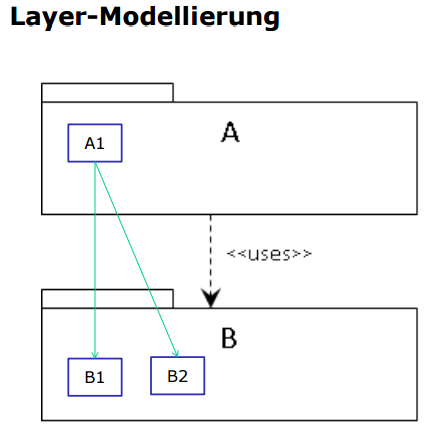
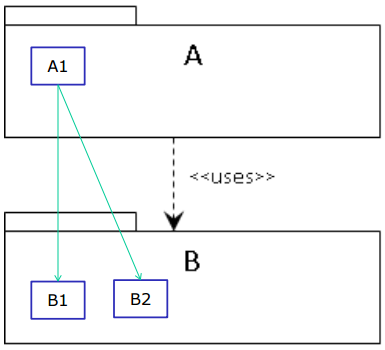
Layout korrigiert

Changed region(s): [[0.0, 0.0, 0.9974, 1.0], [0.5299, 0.5714, 0.7481, 0.6], [0.4675, 0.1143, 0.5299, 0.2]]

diff --git a/architektur.tex b/architektur.tex
@@ -117,29 +117,31 @@ Dies ist ein Designmuster mit dem Ziel Datemodell von seiner Darstellung und der
 \paragraph{Anwendungsfall 2: MVC auf Applikationsebene} Model ist meist eine ganz normale Java-Klasse. Mehrere Views können die Daten darstellen. Änderungen im Modell werden an die Views gesendet. Modell darf aber View nicht kennen (Observer)! Ein Controller verändert die Modelle und ordnet den Views die entsprechenden Modelle zu. Bsp: Modell einer Kundenadresse. Zwei Views: Detailliertes Formulare und als Zeile in Tabellenansicht.
 
 \begin{figure}[h!]
-\centering
-\includegraphics[width=0.7\linewidth]{fig/mvc}
-\caption{MVC}
-\label{fig:mvc}
+	\centering
+	\begin{subfigure}[b]{0.3\textwidth}
+		\includegraphics[width=\textwidth]{fig/mvc}
+		\caption{MVC Prinzip}
+		\label{fig:mvc}
+	\end{subfigure}
+	~
+	\begin{subfigure}[b]{0.3\textwidth}
+		\includegraphics[width=\textwidth]{fig/mvc-web-1}
+		\caption{MVC Variante 1: Alt und eher schlecht. (View Controller vermischt)}
+		\label{fig:mvc-web-1}
+	\end{subfigure}
+	~
+	\begin{subfigure}[b]{0.3\textwidth}
+		\includegraphics[width=\textwidth]{fig/mvc-web-2}
+		\caption{MVC Variante 2: Neu und eher besser.}
+		\label{fig:mvc-web-2}
+	\end{subfigure}
+	\caption{MVC Pattern}\label{fig:mvc-pattern}
 \end{figure}
 
 \paragraph{Implementationsvarianten} Kopplung zwischen Model und View. Observerpattern zwischen Modell und View oder über Controller. Statisches Modell: Notifikation über Änderungen im Modell (eher bei grösseren Modellen mit wenig Änderungen). Dynamisches Modell: Aktuelles Modell wird der View regelmässig übergeben (eher bei kleineren Modellen mit vielen Änderungen).
 
-\paragraph{MVC in Webapplikationen} MVC Architektur ist bedingt durch die Technologie von Web-Applikationen eine Herauserforderung. Es besteht oft die Gefahr View und Business-Logic zu vermischen. Modell kann jeweils relativ einfach extrahiert werden. Im Laufe der Zeit sind zwei MVC-Varianten entstanden:
-
-\begin{figure}[h!]
-\centering
-\includegraphics[width=0.7\linewidth]{fig/mvc-web-1}
-\caption{MVC Variante 1: Alt und eher schlecht. (View Controller vermischt)}
-\label{fig:mvc-web-1}
-\end{figure}
-
-\begin{figure}[h!]
-\centering
-\includegraphics[width=0.7\linewidth]{fig/mvc-web-2}
-\caption{MVC Variante 2: Neu und eher besser.}
-\label{fig:mvc-web-2}
-\end{figure}
+\paragraph{MVC in Webapplikationen} 
+MVC Architektur ist bedingt durch die Technologie von Web-Applikationen eine Herauserforderung. Es besteht oft die Gefahr View und Business-Logic zu vermischen. Modell kann jeweils relativ einfach extrahiert werden. Im Laufe der Zeit sind zwei MVC-Varianten entstanden:
 
 MVC Pattern ist fundamental im SW-Design. Modelle sind meist sehr stabil und bieten hohe Kohäsion und lose Kopplung. Pro Modell können verschiedene Views existieren. Die Wiederverwendung von Controller ist jedoch sehr gering, da oft hoch spezialisiert. Controller agieren als Leim zwischen View und Modell.
 

diff --git a/hofstetter.tex b/hofstetter.tex
@@ -3,10 +3,10 @@
 \section{Anforderungen}
 
 \subsection{Begriffe}
-\begin{itemize}
-	\item Anforderungen: Wünsche, Ziele und Vorgaben von Benutzer an ein System. Bedingungen und Eigenschaften des zu entwickelnden Systems.
-	\item Stakeholder: Person oder Organisation die Einfluss auf die Anforderungen hat. (Bspw: Kunde, Vorschriften, Gesetze)
-\end{itemize}
+\begin{description}
+	\item[Anforderungen:] Wünsche, Ziele und Vorgaben von Benutzer an ein System. Bedingungen und Eigenschaften des zu entwickelnden Systems.
+	\item[Stakeholder:] Person oder Organisation die Einfluss auf die Anforderungen hat. (Bspw: Kunde, Vorschriften, Gesetze)
+\end{description}
 
 \subsection{Einführung}
 
@@ -304,26 +304,23 @@ Pakete sind Ansammlungen von irgendwelchen Modellelementen. Mittels Paketen wird
 \subsection{Zyklische Abhängigkeiten}
 Wenn A von B abhängig ist und B von A. Oder wenn A von B und B von C und C wiederum von A. Dann haben wir Zyklen. Das erhöht die Kopplung des System und ist schlecht wartbar. Zyklen konnen oft mittels eines dritten vermieden werden. Der Dritte entkoppelt die beiden voneinander. In Java wird oft das Observer-Pattern eingesetzt.
 
-\begin{figure}[h!]
-\centering
-\includegraphics[width=0.7\linewidth]{fig/observer-pattern}
-\caption{Observer-Pattern}
-\label{fig:observer-pattern}
-\end{figure}
-
 \subsection{Weitere Modellierungen}
-\begin{figure}[h!]
-\centering
-\includegraphics[width=0.7\linewidth]{fig/layer-modellierung}
-\caption{Layer-Modellierung}
-\label{fig:layer-modellierung}
-\end{figure}
 
 \begin{figure}[h!]
-\centering
-\includegraphics[width=0.7\linewidth]{fig/interface-uml}
-\caption{Interface in UML}
-\label{fig:interface-uml}
+	\centering
+	\begin{subfigure}[b]{0.4\textwidth}
+		\includegraphics[width=\textwidth]{fig/interface-uml}
+		\caption{Interface in UML}
+		\label{fig:interface-uml}
+	\end{subfigure}
+	~
+	\begin{subfigure}[b]{0.4\textwidth}
+		\includegraphics[width=\textwidth]{fig/layer-modellierung}
+		\caption{Layer-Modellierung}
+		\label{fig:layer-modellierung}
+	\end{subfigure}
+	\caption{Weitere Modellierungen}
+	\label{fig:weitere-modellierungen}
 \end{figure}
 
 \subsection{Software Architektur Dokument}

diff --git a/christen.tex b/christen.tex
@@ -21,6 +21,8 @@ Ein Beispiel dafür sehen wir in Abbildung \ref{fig:relationales-datenmodell}.
 \label{fig:relationales-datenmodell}
 \end{figure}
 
+\newpage
+
 \subsection{JPA (Java Persistence API)}
 Nun haben wir das effektive Schema, welches wir auf unserem DBMS installieren können. Nun wollen wir auf die Daten aus einem Java-Programm zugreifen.
 
@@ -28,12 +30,12 @@ Und hier müssen wir ein ORM durchführen. ORM steht für objekt-relationales Ma
 
 \begin{figure}[h!]
 \centering
-\includegraphics[width=0.7\linewidth]{fig/orm-basics}
-\caption[ORM Basics]{}
-\caption{}
+\includegraphics[width=0.5\linewidth]{fig/orm-basics}
+\caption{ORM Basics}
 \label{fig:orm-basics}
 \end{figure}
 
+\noindent
 Folgendes sind Schlüsselelemente in JPA:
 \begin{description}
 	\item[Entity:] Java-Klasse, welche für eine Tabelle steht.

diff --git a/gisler.tex b/gisler.tex
@@ -93,8 +93,6 @@ Durch die Einhaltung der SOLID-Prinzipien erreicht man ein besseres Design. Bess
 	\item leichteres Refactoring
 \end{itemize}
 
-\newpage
-
 \subsection{Single Responsibility Principle}
 
 \begin{itemize}
